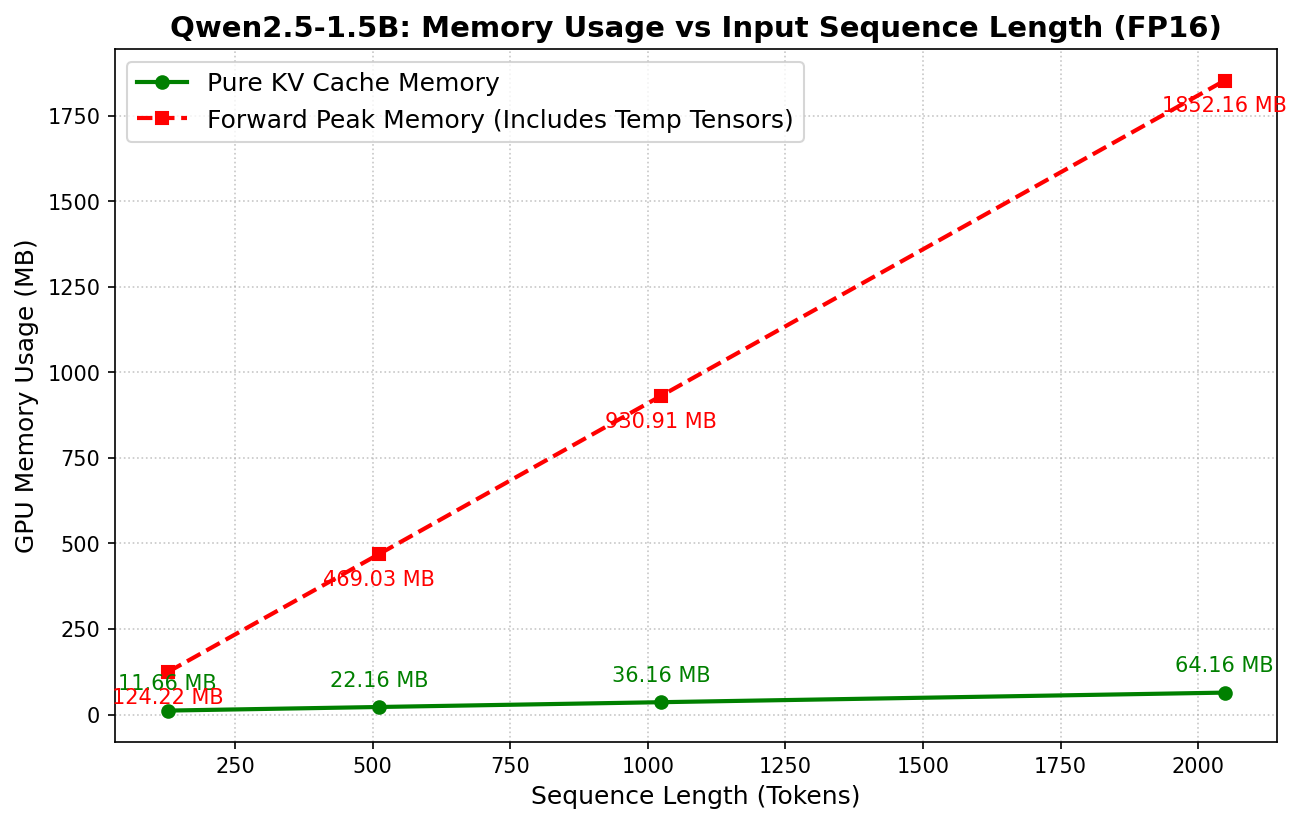
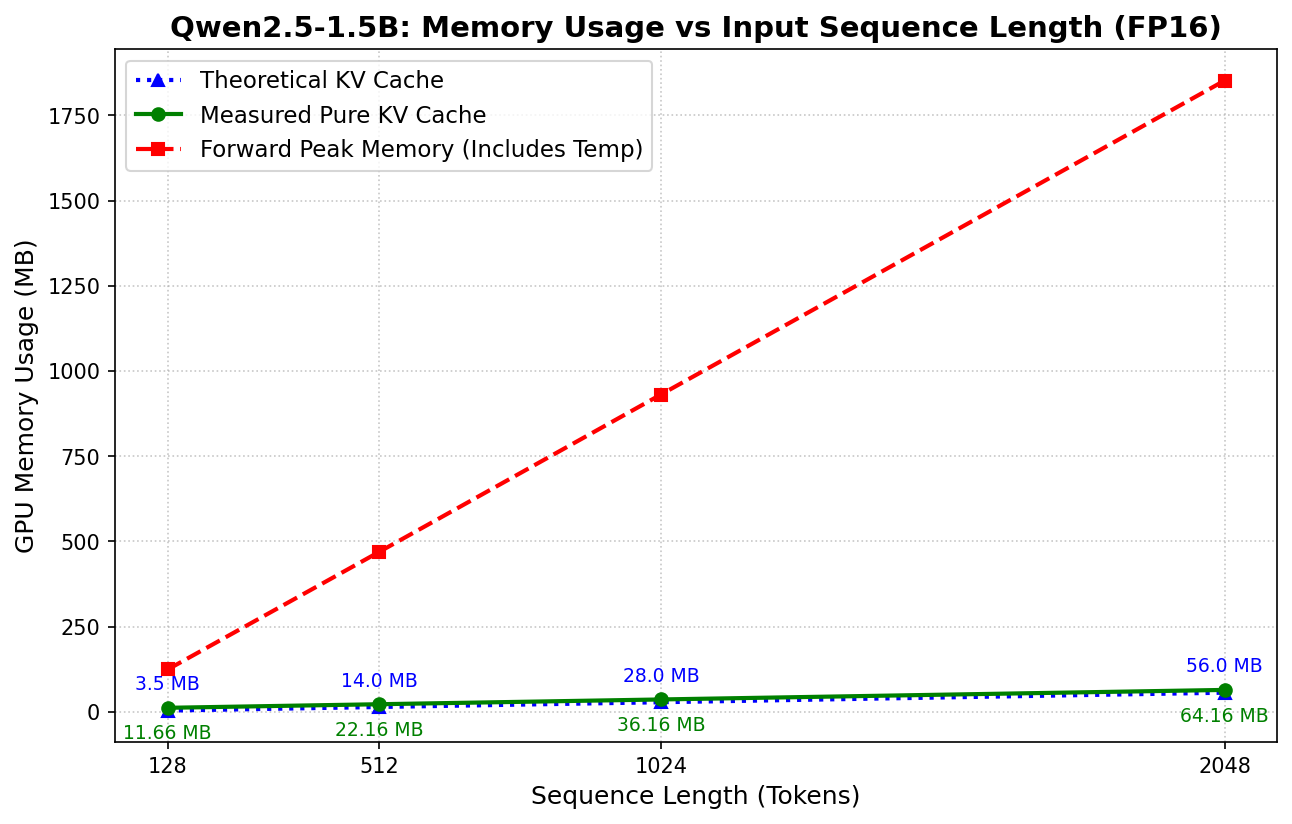
complete day05 tasks

diff --git a/scripts/.ipynb_checkpoints/plot_kv_memory-checkpoint.py b/scripts/.ipynb_checkpoints/plot_kv_memory-checkpoint.py
@@ -4,31 +4,50 @@ import os
 # 确保 results 文件夹存在
 os.makedirs("results", exist_ok=True)
 
-# 1. 准备数据 (来源于你刚才的实测数据)
+# 1. 准备数据
 seq_lengths = [128, 512, 1024, 2048]
-pure_kv_memory = [11.66, 22.16, 36.16, 64.16]    # 纯 KV Cache 占用
-peak_memory = [124.22, 469.03, 930.91, 1852.16]  # 前向传播峰值总增量 (含临时张量)
+
+# 理论 KV Cache 占用 (单位: MB)
+theoretical_kv = [l * 28 / 1024 for l in seq_lengths]
+
+# 你的实测数据
+pure_kv_memory = [11.66, 22.16, 36.16, 64.16]    
+peak_memory = [124.22, 469.03, 930.91, 1852.16]  
+
+# 权重基础显存
+base_weight_vram = 3393.29
 
 # 2. 设置绘图参数
-plt.figure(figsize=(10, 6), dpi=150) # 设置画布大小和清晰度
-# 为了兼容服务器上的中文字体，这里用英文作为标题和图例，如果你本地有中文字体可以换成中文
-plt.plot(seq_lengths, pure_kv_memory, marker='o', linewidth=2, color='green', label='Pure KV Cache Memory')
-plt.plot(seq_lengths, peak_memory, marker='s', linewidth=2, color='red', linestyle='--', label='Forward Peak Memory (Includes Temp Tensors)')
+plt.figure(figsize=(10, 6), dpi=150) 
+
+# 画三条线
+plt.plot(seq_lengths, theoretical_kv, marker='^', linewidth=2, color='blue', linestyle=':', label='Theoretical KV Cache')
+plt.plot(seq_lengths, pure_kv_memory, marker='o', linewidth=2, color='green', label='Measured Pure KV Cache')
+plt.plot(seq_lengths, peak_memory, marker='s', linewidth=2, color='red', linestyle='--', label='Forward Peak Memory (Includes Temp)')
+
+#强制横坐标只显示你指定的这些数据点
+plt.xticks(seq_lengths, [str(s) for s in seq_lengths])
 
 # 3. 美化图表
 plt.title('Qwen2.5-1.5B: Memory Usage vs Input Sequence Length (FP16)', fontsize=14, fontweight='bold')
 plt.xlabel('Sequence Length (Tokens)', fontsize=12)
 plt.ylabel('GPU Memory Usage (MB)', fontsize=12)
 plt.grid(True, linestyle=':', alpha=0.7)
-plt.legend(fontsize=12)
+plt.legend(fontsize=11)
 
 # 4. 标注具体的数值点
+for i, txt in enumerate(theoretical_kv):
+    plt.annotate(f"{txt:.1f} MB", (seq_lengths[i], theoretical_kv[i]), textcoords="offset points", xytext=(0,10), ha='center', fontsize=9, color='blue')
 for i, txt in enumerate(pure_kv_memory):
-    plt.annotate(f"{txt} MB", (seq_lengths[i], pure_kv_memory[i]), textcoords="offset points", xytext=(0,10), ha='center', fontsize=10, color='green')
-for i, txt in enumerate(peak_memory):
-    plt.annotate(f"{txt} MB", (seq_lengths[i], peak_memory[i]), textcoords="offset points", xytext=(0,-15), ha='center', fontsize=10, color='red')
+    plt.annotate(f"{txt} MB", (seq_lengths[i], pure_kv_memory[i]), textcoords="offset points", xytext=(0,-15), ha='center', fontsize=9, color='green')
 
 # 5. 保存图片
 save_path = "results/kv_memory_curve.png"
 plt.savefig(save_path, bbox_inches='tight')
 print(f"✅ 图表已成功保存至: {save_path}")
+
+# 6. 占比分析
+print("\n--- 缓存占比分析 (128 和 2048 两个点) ---")
+for i in [0, 3]:
+    percent = (pure_kv_memory[i] / base_weight_vram) * 100
+    print(f"序列长度 {seq_lengths[i]:4d} | 实测 KV Cache 占 FP16 权重的: {percent:.2f}%")

diff --git a/scripts/plot_kv_memory.py b/scripts/plot_kv_memory.py
@@ -4,31 +4,50 @@ import os
 # 确保 results 文件夹存在
 os.makedirs("results", exist_ok=True)
 
-# 1. 准备数据 (来源于你刚才的实测数据)
+# 1. 准备数据
 seq_lengths = [128, 512, 1024, 2048]
-pure_kv_memory = [11.66, 22.16, 36.16, 64.16]    # 纯 KV Cache 占用
-peak_memory = [124.22, 469.03, 930.91, 1852.16]  # 前向传播峰值总增量 (含临时张量)
+
+# 理论 KV Cache 占用 (单位: MB)
+theoretical_kv = [l * 28 / 1024 for l in seq_lengths]
+
+# 你的实测数据
+pure_kv_memory = [11.66, 22.16, 36.16, 64.16]    
+peak_memory = [124.22, 469.03, 930.91, 1852.16]  
+
+# 权重基础显存
+base_weight_vram = 3393.29
 
 # 2. 设置绘图参数
-plt.figure(figsize=(10, 6), dpi=150) # 设置画布大小和清晰度
-# 为了兼容服务器上的中文字体，这里用英文作为标题和图例，如果你本地有中文字体可以换成中文
-plt.plot(seq_lengths, pure_kv_memory, marker='o', linewidth=2, color='green', label='Pure KV Cache Memory')
-plt.plot(seq_lengths, peak_memory, marker='s', linewidth=2, color='red', linestyle='--', label='Forward Peak Memory (Includes Temp Tensors)')
+plt.figure(figsize=(10, 6), dpi=150) 
+
+# 画三条线
+plt.plot(seq_lengths, theoretical_kv, marker='^', linewidth=2, color='blue', linestyle=':', label='Theoretical KV Cache')
+plt.plot(seq_lengths, pure_kv_memory, marker='o', linewidth=2, color='green', label='Measured Pure KV Cache')
+plt.plot(seq_lengths, peak_memory, marker='s', linewidth=2, color='red', linestyle='--', label='Forward Peak Memory (Includes Temp)')
+
+#强制横坐标只显示你指定的这些数据点
+plt.xticks(seq_lengths, [str(s) for s in seq_lengths])
 
 # 3. 美化图表
 plt.title('Qwen2.5-1.5B: Memory Usage vs Input Sequence Length (FP16)', fontsize=14, fontweight='bold')
 plt.xlabel('Sequence Length (Tokens)', fontsize=12)
 plt.ylabel('GPU Memory Usage (MB)', fontsize=12)
 plt.grid(True, linestyle=':', alpha=0.7)
-plt.legend(fontsize=12)
+plt.legend(fontsize=11)
 
 # 4. 标注具体的数值点
+for i, txt in enumerate(theoretical_kv):
+    plt.annotate(f"{txt:.1f} MB", (seq_lengths[i], theoretical_kv[i]), textcoords="offset points", xytext=(0,10), ha='center', fontsize=9, color='blue')
 for i, txt in enumerate(pure_kv_memory):
-    plt.annotate(f"{txt} MB", (seq_lengths[i], pure_kv_memory[i]), textcoords="offset points", xytext=(0,10), ha='center', fontsize=10, color='green')
-for i, txt in enumerate(peak_memory):
-    plt.annotate(f"{txt} MB", (seq_lengths[i], peak_memory[i]), textcoords="offset points", xytext=(0,-15), ha='center', fontsize=10, color='red')
+    plt.annotate(f"{txt} MB", (seq_lengths[i], pure_kv_memory[i]), textcoords="offset points", xytext=(0,-15), ha='center', fontsize=9, color='green')
 
 # 5. 保存图片
 save_path = "results/kv_memory_curve.png"
 plt.savefig(save_path, bbox_inches='tight')
 print(f"✅ 图表已成功保存至: {save_path}")
+
+# 6. 占比分析
+print("\n--- 缓存占比分析 (128 和 2048 两个点) ---")
+for i in [0, 3]:
+    percent = (pure_kv_memory[i] / base_weight_vram) * 100
+    print(f"序列长度 {seq_lengths[i]:4d} | 实测 KV Cache 占 FP16 权重的: {percent:.2f}%")

diff --git a/scripts/.ipynb_checkpoints/toy_quant-checkpoint.py b/scripts/.ipynb_checkpoints/toy_quant-checkpoint.py
@@ -1,0 +1,36 @@
+import torch
+import numpy as np
+
+def symmetric_quantize(w):
+    print(f"\n--- 原始数据: {w} ---")
+    # 1. 计算 Scale (对称量化，取绝对值的最大值除以 127)
+    max_val = np.max(np.abs(w))
+    # 防止全0数组除以0
+    scale = max_val / 127.0 if max_val != 0 else 1.0
+    
+    print(f"计算出的 Scale: {scale:.6f}")
+    
+    # 2. 量化 (除以 scale，四舍五入，并限制在 -127 到 127 之间)
+    # 相当于把浮点数挤进 8位整数 的盒子里
+    int_w = np.clip(np.round(w / scale), -127, 127).astype(np.int8)
+    print(f"INT8 整数数组: {int_w}")
+    
+    # 3. 反量化 (乘回 scale，恢复成浮点数)
+    dequant_w = int_w * scale
+    print(f"反量化后的浮点数组: {dequant_w}")
+    
+    # 4. 计算误差
+    mae = np.mean(np.abs(w - dequant_w))
+    mse = np.mean((w - dequant_w) ** 2)
+    print(f"最大绝对误差 (MAE): {mae:.6f}")
+    print(f"均方误差 (MSE): {mse:.6f}")
+    
+    return mae
+
+# 测试数据 1：正常的数组
+normal_w = np.array([-1.0, -0.4, 0, 0.3, 0.9], dtype=np.float32)
+symmetric_quantize(normal_w)
+
+# 测试数据 2：加入一个巨大的离群值 (Outlier) 10.0
+outlier_w = np.array([-1.0, -0.4, 0, 0.3, 10.0], dtype=np.float32)
+symmetric_quantize(outlier_w)

diff --git a/scripts/toy_quant.py b/scripts/toy_quant.py
@@ -1,0 +1,36 @@
+import torch
+import numpy as np
+
+def symmetric_quantize(w):
+    print(f"\n--- 原始数据: {w} ---")
+    # 1. 计算 Scale (对称量化，取绝对值的最大值除以 127)
+    max_val = np.max(np.abs(w))
+    # 防止全0数组除以0
+    scale = max_val / 127.0 if max_val != 0 else 1.0
+    
+    print(f"计算出的 Scale: {scale:.6f}")
+    
+    # 2. 量化 (除以 scale，四舍五入，并限制在 -127 到 127 之间)
+    # 相当于把浮点数挤进 8位整数 的盒子里
+    int_w = np.clip(np.round(w / scale), -127, 127).astype(np.int8)
+    print(f"INT8 整数数组: {int_w}")
+    
+    # 3. 反量化 (乘回 scale，恢复成浮点数)
+    dequant_w = int_w * scale
+    print(f"反量化后的浮点数组: {dequant_w}")
+    
+    # 4. 计算误差
+    mae = np.mean(np.abs(w - dequant_w))
+    mse = np.mean((w - dequant_w) ** 2)
+    print(f"最大绝对误差 (MAE): {mae:.6f}")
+    print(f"均方误差 (MSE): {mse:.6f}")
+    
+    return mae
+
+# 测试数据 1：正常的数组
+normal_w = np.array([-1.0, -0.4, 0, 0.3, 0.9], dtype=np.float32)
+symmetric_quantize(normal_w)
+
+# 测试数据 2：加入一个巨大的离群值 (Outlier) 10.0
+outlier_w = np.array([-1.0, -0.4, 0, 0.3, 10.0], dtype=np.float32)
+symmetric_quantize(outlier_w)
